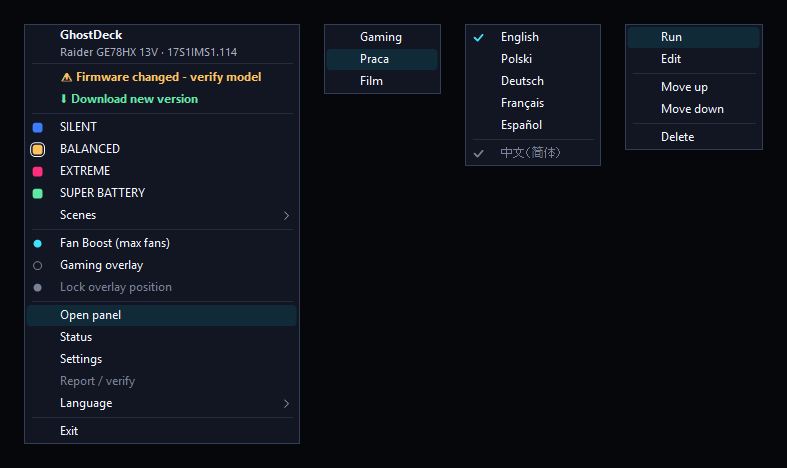
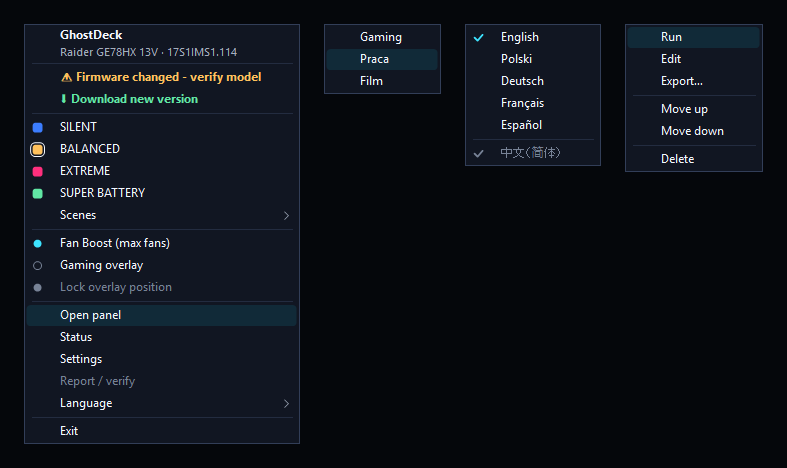
Pictures for the six small things of 1.47 in README, TECHNICAL and RENDERING; shorter label for "Fan Boost off once cooled"; credit for the themed menus (#371)

Changed region(s): [[0.7929, 0.1496, 0.9759, 0.359]]

diff --git a/Core/Lang.cs b/Core/Lang.cs
@@ -779,7 +779,8 @@ public static class Lang
         m["ta_btn_boost"]   = new[] { "Turn on Fan Boost", "Włącz Fan Boost", "Fan Boost einschalten", "Activer Fan Boost", "Activar Fan Boost", "开启 Fan Boost", "Ligar o Fan Boost", "Включить Fan Boost", "Fan Boost をオン", "Fan Boost 켜기", "開啟 Fan Boost", "Fan Boost'u aç", "Bật Fan Boost", "Nyalakan Fan Boost", "Attiva Fan Boost" };
         m["ta_btn_silent"]  = new[] { "Switch to Silent", "Przełącz na Silent", "Zu Silent wechseln", "Passer en Silent", "Cambiar a Silent", "切换到 Silent", "Mudar para Silent", "Переключить на Silent", "Silent に切り替え", "Silent로 전환", "切換到 Silent", "Silent'e geç", "Chuyển sang Silent", "Beralih ke Silent", "Passa a Silent" };
         // (roadmap #37) Fan Boost off once cooled
-        m["set_fb_cool"]    = new[] { "Turn Fan Boost off once the laptop has cooled", "Wyłączaj Fan Boost, gdy laptop ostygnie", "Fan Boost ausschalten, sobald der Laptop abgekühlt ist", "Désactiver Fan Boost une fois le portable refroidi", "Desactivar Fan Boost cuando el portátil se enfríe", "笔记本降温后关闭 Fan Boost", "Desligar o Fan Boost quando o notebook esfriar", "Выключать Fan Boost, когда ноутбук остынет", "ノート PC が冷えたら Fan Boost をオフにする", "노트북이 식으면 Fan Boost 끄기", "筆電降溫後關閉 Fan Boost", "Dizüstü soğuyunca Fan Boost'u kapat", "Tắt Fan Boost khi máy đã nguội", "Matikan Fan Boost setelah laptop mendingin", "Disattiva Fan Boost quando il portatile si è raffreddato" };
+        // kept as short as the timer's label above it, so both lists stay in one column
+        m["set_fb_cool"]    = new[] { "Turn Fan Boost off once cooled", "Wyłączaj Fan Boost po ostygnięciu", "Fan Boost nach Abkühlen ausschalten", "Désactiver Fan Boost une fois refroidi", "Desactivar Fan Boost al enfriarse", "降温后关闭 Fan Boost", "Desligar o Fan Boost ao esfriar", "Выключать Fan Boost после остывания", "冷えたら Fan Boost をオフにする", "식으면 Fan Boost 끄기", "降溫後關閉 Fan Boost", "Soğuyunca Fan Boost'u kapat", "Tắt Fan Boost khi đã nguội", "Matikan Fan Boost setelah dingin", "Disattiva Fan Boost una volta freddo" };
         m["fb_cool_below"]  = new[] { "below {0} °C", "poniżej {0} °C", "unter {0} °C", "sous {0} °C", "por debajo de {0} °C", "低于 {0} °C", "abaixo de {0} °C", "ниже {0} °C", "{0} °C 未満", "{0} °C 미만", "低於 {0} °C", "{0} °C altında", "dưới {0} °C", "di bawah {0} °C", "sotto {0} °C" };
         m["fb_cooled"]      = new[] { "Cooled to {0} °C - back to the profile's fans", "Ostygło do {0} °C - wentylatory wracają do profilu", "Auf {0} °C abgekühlt - zurück zu den Profil-Lüftern", "Refroidi à {0} °C - retour aux ventilateurs du profil", "Enfriado a {0} °C - vuelta a los ventiladores del perfil", "已降至 {0} °C - 风扇回到配置文件设置", "Esfriou para {0} °C - ventoinhas voltam ao perfil", "Остыл до {0} °C - вентиляторы возвращаются к профилю", "{0} °C まで冷却 - プロファイルのファン設定に戻しました", "{0} °C까지 식음 - 프로필 팬 설정으로 복귀", "已降至 {0} °C - 風扇回到設定檔設定", "{0} °C'ye soğudu - profilin fanlarına dönüldü", "Đã nguội xuống {0} °C - quạt trở về theo hồ sơ", "Mendingin ke {0} °C - kembali ke kipas profil", "Raffreddato a {0} °C - ventole del profilo ripristinate" };
         m["tier_telemetry"] = new[] { "monitoring only", "tylko odczyty", "nur Messwerte", "lecture seule", "solo lectura", "仅监测", "somente leitura", "только мониторинг", "モニタリングのみ", "모니터링만", "僅監測", "yalnızca izleme", "chỉ theo dõi", "hanya pemantauan", "solo monitoraggio" };

diff --git a/CHANGELOG.md b/CHANGELOG.md
@@ -6,14 +6,14 @@ Format loosely based on [Keep a Changelog](https://keepachangelog.com/).
 ## [Unreleased]
 ### Added
 - **An update that needs a newer .NET asks first.** When a GhostDeck release needs a newer version of Microsoft's .NET Desktop Runtime than the one on your computer, the update no longer goes ahead on its own. A card offers to install .NET together with the update, to open Microsoft's download page, or to cancel and keep the current version. This is the only case in which GhostDeck installs anything, and it only happens after that click. See the FAQ "Does GhostDeck install anything on my computer?".
-- **Fan Boost turns itself off once the laptop has cooled.** Settings → Power has a second rule next to the timer: *Turn Fan Boost off once the laptop has cooled*, below 55 to 80 °C. Fan Boost then stays on until the hotter of the processor and the graphics card has held below that temperature for about ten seconds (and for at least half a minute in any case), and hands the fans back to the profile. The timer keeps working beside it and is the upper limit when both are set; the on-screen message and the change history say which of the two ended it.
+- **Fan Boost turns itself off once the laptop has cooled.** Settings → Power has a second rule next to the timer: *Turn Fan Boost off once cooled*, below 55 to 80 °C. Fan Boost then stays on until the hotter of the processor and the graphics card has held below that temperature for about ten seconds (and for at least half a minute in any case), and hands the fans back to the profile. The timer keeps working beside it and is the upper limit when both are set; the on-screen message and the change history say which of the two ended it.
 - **The temperature alert card has buttons.** The card that reports a high temperature now offers *Turn on Fan Boost* and *Switch to Silent*, each only where it applies (no Fan Boost button while it is already on or on the backup WMI path, no Silent button in Silent). The cross in the corner closes the card without doing either.
 - **Automation pause.** Settings → Automation has a new card: the scene schedule and the battery rules do nothing for 2 hours, until tomorrow morning, for 3 to 30 days or for a number of days of your own, and come back on their own; *Resume now* ends it early. When the pause ends, the schedule window that is running at that moment is applied, as at startup. Alerts, travel mode and the profile switch on AC / battery are not paused.
 - **Scenes to a file and back.** The Scenarios tab has *Import…* and *Export…* next to *Add scene*, and a scene card's right-click menu has *Export…* for that one scene. The file is plain JSON. Imported scenes are added next to yours, never over them: each gets a free name, hotkeys are not carried over, and what the file names but this computer does not have (a fan-curve preset or a crosshair preset by that name, the display a refresh rate was picked for) is left out of the scene.
 - **History charts as a picture.** Status → History has a *PNG* button next to *Export…*: it saves the charts as you see them (theme and time range included) under one line with the app version, model, firmware, time and range, ready for a report or a forum post.
 
 ### Changed
-- **Right-click menus follow the theme.** The tray icon's menu and the scene card's menu were drawn in the light Windows style whatever the theme; they are now drawn in GhostDeck's colours in both themes, submenus included. The on / off dots and the profile colour chips in the tray menu are drawn at the menu's size, so they no longer stay small at high display scaling.
+- **Right-click menus follow the theme.** The tray icon's menu and the scene card's menu were drawn in the light Windows style whatever the theme; they are now drawn in GhostDeck's colours in both themes, submenus included. The on / off dots and the profile colour chips in the tray menu are drawn at the menu's size, so they no longer stay small at high display scaling. Thanks @ymg2006 for the idea ([#371](../../pull/371)).
 - **GS66 Stealth is a tested model** (`16V1EMS1`, model database 20261221, [#291](../../issues/291), thanks
   @MyatThuyaAung and @SFIsaksen): its path test passed on the backup WMI path, and the owner confirmed Silent quieter than
   Balanced under a light load and switching stable over days. The fan-curve editor stays off for this model

diff --git a/docs/TECHNICAL.md b/docs/TECHNICAL.md
@@ -5011,6 +5011,8 @@ target, which is the intended use while a game is running. Nothing is checked du
 EC operation (`_ecBusy`), like the timer. No Fan Boost register exists on the backup WMI path,
 so the rule has nothing to act on there.
 
+![Settings, Power: the timer and the rule under it](images/fan_boost_cooled.png)
+
 ### 90.2 The temperature card's buttons (roadmap #50)
 
 The alert card (`ShowThermalCard`) is the plain `GhostCardForm` with its two buttons given a
@@ -5048,7 +5050,9 @@ card (Settings → Automation, `BuildPause`) offers 2 hours, until tomorrow 8:00
 days and a number of days of the user's own (1 to 365); while a pause runs it shows the end
 time and *Resume now*. `MainDeps.PauseAutomation` is the page's one call into the tray context.
 
-![The automation pause card above the scene schedule](images/automation_pause.png)
+| Before | While a pause runs |
+|---|---|
+| ![The automation pause card: a length and the Pause button](images/automation_pause.png) | ![The card while a pause runs: the end time and Resume now](images/automation_paused.png) |
 
 ### 90.4 Scenes as a file (roadmap #48)
 
@@ -5071,6 +5075,8 @@ A file holds at most 50 scenes and 512 KB. The Scenarios tab has *Import…* and
 scenes); a scene card's right-click menu exports that one scene. A file that holds no scenes is
 answered with a GhostDeck card.
 
+![The scene cards with Add scene, Import and Export under them](images/scenes_import_export.png)
+
 ### 90.5 The History charts as a PNG (roadmap #46)
 
 `StatusPage.ComposeHistoryPng` draws the chart cards with the very method the page uses
@@ -5081,7 +5087,13 @@ drawn through GDI (`TextRenderer`), which leaves the alpha channel of a 32-bit b
 and the saved picture would have holes where the text is. The page's hit-test list for the
 cursor readout (`_histPlots`) is put back after the drawing, because the drawing adds to it.
 
-![A saved History picture](images/history_png_export.png)
+| The button | The saved picture |
+|---|---|
+| ![Status, History: PNG next to Export](images/history_png_button.png) | ![A saved History picture](images/history_png_export.png) |
+
+All six changes of this release on one sheet:
+
+![The six small things of 1.47 on one sheet](images/v147_six_things_sheet.png)
 
 **Checking.** Preview tool, mode `novbatch`: both forms of the temperature card, the History
 picture in both themes from synthetic samples, and a console run of the scenes file (round trip,

diff --git a/README.md b/README.md
@@ -249,6 +249,10 @@ External monitors and HDR were not tested (the message carries no monitor parame
 | **Settings → Hotkeys** - every action rebindable, including one shortcut per scene | **Updates** - one-click install, 20 releases with download counts and inline notes |
 | ![An update that needs a newer .NET](docs/images/net_update_card.png) | ![.NET was not installed](docs/images/net_update_failed_card.png) |
 | **An update that needs a newer .NET asks first** - install .NET with the update, download it yourself, or cancel; nothing is installed without that click | **If installing .NET does not succeed** - the running version stays as it was, and Microsoft's page is one click away |
+| ![Right-click menus in the dark theme](docs/images/themed_menus.png) | ![The temperature card with its two buttons](docs/images/thermal_card_actions.png) |
+| **Right-click menus** - the tray menu, its submenus and the scene card's menu in the app's colours, dark or light | **Temperature alert** - the card offers Fan Boost and the Silent profile, one click each |
+| ![Automation pause](docs/images/automation_pause.png) | ![Scenes: Import and Export](docs/images/scenes_import_export.png) |
+| **Automation pause** - the scene schedule and the battery rules sleep for hours or days and come back on their own | **Scenes to a file** - *Import…* and *Export…* next to *Add scene*; one scene from its card's right-click menu |
 | ![Settings → System → Backup](docs/images/settings-backup-copies.png) | ![Restore a copy](docs/images/settings-backup-restore-card.png) |
 | **Backup** - export and import of the settings file, rotating copies in the app folder (at every start and on demand), *Restore*, *Delete*, how many copies to keep | **Restore** - one card says which copy comes back before anything is overwritten |
 | ![Tray menu settings](docs/images/tray_menu_settings.png) | ![Models - Start, light theme](docs/images/models_start_light.png) |

diff --git a/docs/RENDERING.md b/docs/RENDERING.md
@@ -758,6 +758,8 @@ covers the strip and every submenu.
 
 ![The tray menu, two submenus and the scene card's menu in the dark theme](images/themed_menus.png)
 
+![The same menus in the light theme](images/themed_menus_light.png)
+
 - **One strip, no extra windows.** The menu stays a `ContextMenuStrip`; nothing is hosted in it
   (§8.1: a window per line is what made the Settings page slow).
 - **Colours are read while painting.** The renderer derives from `ToolStripRenderer` and takes
